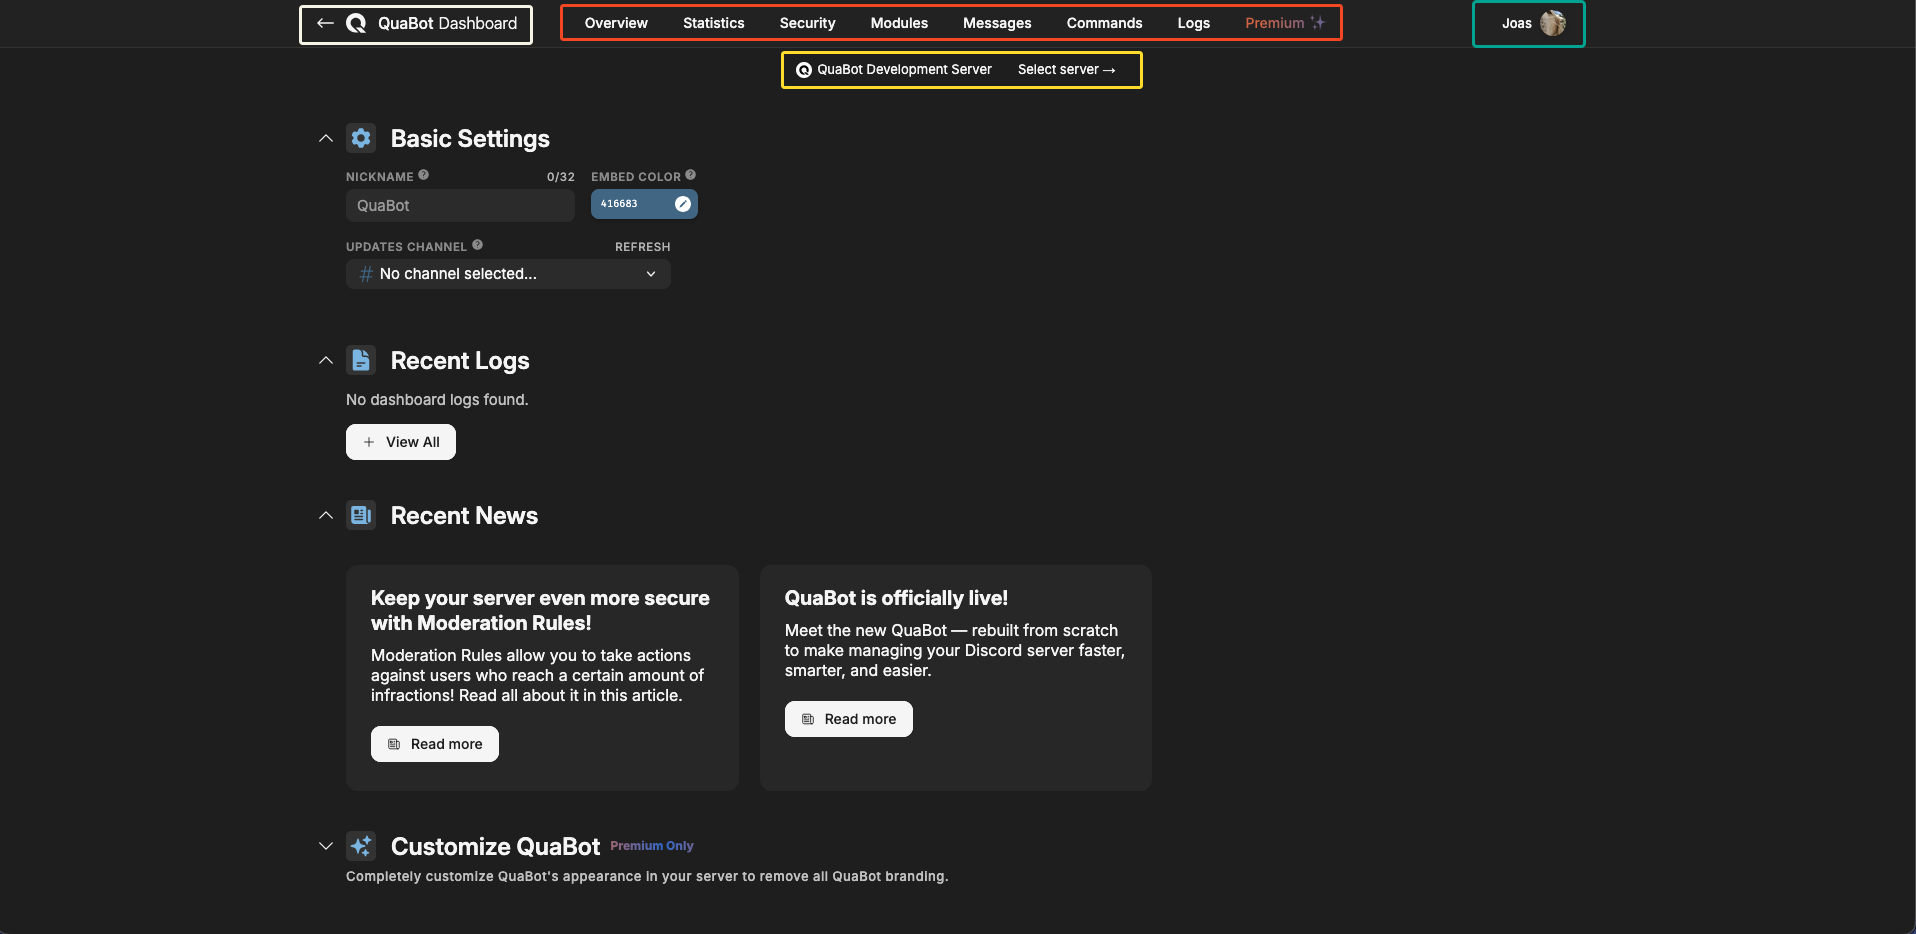
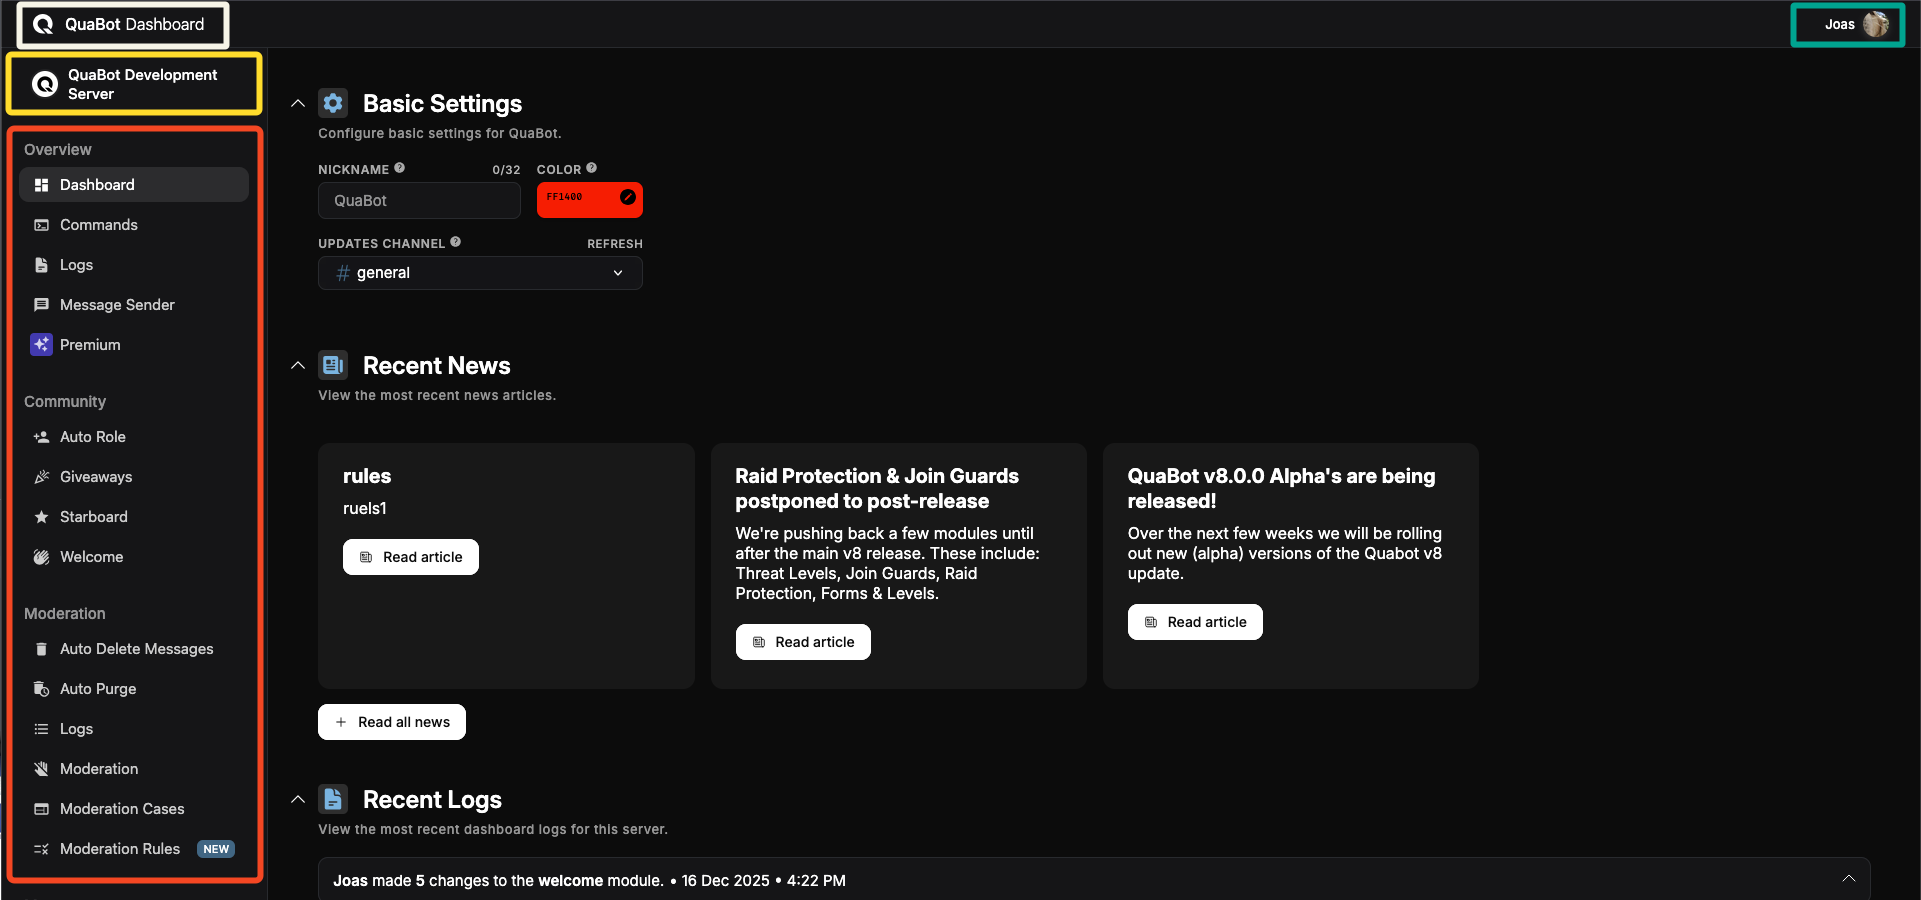
Added the issues & errors page (coming soon)

diff --git a/docs/getting-started.md b/docs/getting-started.md
@@ -70,12 +70,12 @@ There are a couple of ways to navigate around the dashboard. In the image below 
 ![Navigating](./img/GettingStarted-Navigation.png)
 
 1. Using the **QuaBot Dashboard Logo** (outlined in white), you can return to the main QuaBot site by clicking on the part of the logo that just says "QuaBot". Clicking on the "Dashboard" text opens the Server Selection page. The arrow to the left returns you to the next page (if there is one). This is always visible.
-2. Using the **tabs** (outlined in red), you can navigate to the different tabs of the dashboard. These are always visible. We will go over each of these tabs later. When you are on one of these tabs they have a different color to differentiate them. (As seen on the "Overview" tab)
+2. Using the **sidebar** (outlined in red), you can select the different modules and pages you want to visit. They are divided into seperate tabs and categories, the Overview category are the pages we will explain in this article. Below it, the modules are divided into categories and placed in a list.
 3. Clicking on your **Username** in the top right (outlined in green), you can open a dropdown with some additional settings. You will see the user you are logged in as, you can select a different theme (Light, Dark, Dark (Light) and Dark (blue)). You can directly visit the wiki (in a new tab), and log out of the dashboard. An example is shown below. This tab is always available, as long as you are logged in.
 
    ![Navigating Username](./img/GettingStarted-NavigationUsername.png)
 
-4. Using the **Select Server** bar (outlined in yellow), you can easily see what server you are configuring at this time. You can also easily go back to the server selection page. This bar is only visible when a server is selected, so not on the Servers page.
+4. Using the **Server Name** (outlined in yellow), you can easily see what server you are configuring at this time. You can also easily go back to the server selection page by clicking on it. This bar is only visible when a server is selected, so not on the Servers page.
 
 Hopefully this made you understand how to navigate the QuaBot dashboard. Next up, we'll take a look at each of the tabs.
 
@@ -92,13 +92,13 @@ The overview page is the page you can view as the hub of the QuaBot dashboard, o
 
 - Updates Channel: QuaBot might occisionally send messages to this channel regarding major bot updates, big changes or premium-related status updates. We only send a few messages per year, so don't expect any spam from us.
 
-#### Recent Logs
-
-Shows a list of the last few [Dashboard Logs](#logs-page) with the ability to view them all.
-
 #### Recent News
 
 Shows 3 of the newest news articles for you to read. These are mostly about bot updates or future updates and changes.
+
+#### Recent Logs
+
+Shows a list of the last few [Dashboard Logs](#logs-page) with the ability to view them all.
 
 #### Customize QuaBot (Premium only)
 
@@ -120,7 +120,34 @@ You can read all about statistics on the [Statistics Page](./security/statistics
 
 You can read all about security on the [Security Overview Page](./security/security-overview.md).
 
+### Issues & Errors Page
+
+During regular operation, the bot may encounter issues that can be resolved by server administrators, such as missing permissions, deleted channels, or misconfigured modules. When this happens, the Issues & Errors page appears and provides an overview of all detected issues, including quick links to fix them. The page shows up only if 1 or more errors have been created! If your server is setup correctly, the tab will not be available.
+
+![Issues Errors Sidebar](./img/GettingStarted-IssuesErrorsSidebar.png)
+
+When you open the page you will be greeted with the following screen:
+
+![Issues Page](./img/GettingStarted-IssuesErrors.png)
+
+This shows the list of issues. Let's go over an error/issue in detail below.
+
+![Issue](./img/GettingStarted-Issue.png)
+
+- **The issue (outlined in red):** This shows what the issue is with an icon to identify the issue.
+- **The severity of the issue (outlined in yellow):** There are 4 categories: informational, warnings, errors and critical errors. These are used to show how serious the issue is. It also shows how many times the issue has occured so far and the last time it occured.
+- **Role, Channel and User ID**: These are used to provide additional context. They show which role or channel is currently configured and which user ID triggered the issue, for example the user the bot could not assign a role to. If a role or channel exists, its current name is displayed. Otherwise, the ID or configured value is shown. This information can be used to verify whether the role or channel exists and to determine the steps needed to resolve the issue.
+- **Date**: This is shown below at the bottom and shows when the issue was first created.
+- **Mark as resolved (outlined in green):** Quickly mark the issue as resolved. It will not show up in the list anymore. If the issue were to happen again, the issue is marked as unresolved and it will be moved to the top of the list.
+- **Read More:** Opens a link to the wiki [page with common issues](./common_issues.md). This can help you fix the issue by explaining the specific issue in detail.
+
+Issues need to be marked as resolved to be removed from the list and from the sidebar. If you have any questions about this page or the issues shown [contact us!](#do-you-need-additional-support)
+
 ### Modules Page
+
+:::info This page is getting removed soon
+We recently updated the dashboard by adding a sidebar for navigation! This replaces the modules page which is currently only accessible by navigating directly. It has been removed from the sidebar and will be removed soon.
+:::
 
 - On the modules page you will find a full list of modules that you can use and configure for QuaBot. You can begin configuring a module by pressing the **Configure button** (outlined in red). You will then be taken to the configuration page for that modules. Read more about each module [here](./category/modules).
 - You can press the **icon** for each module (outlined in green) to enable or disable them. When a module is black/white it's disabled, if it has color it's enabled.
@@ -169,3 +196,7 @@ If you've reached the bottom of the list, you can use the button ("Load More") o
 ![Logs](./img/GettingStarted-Logs.png)
 
 That's it! You're ready to get started using QuaBot. View the sidebar for more information about [Permissions](./permissions.md), [Commands](./commands.md) or to view the [Modules](./category/modules). If you have any questions, please ask in our [support server](https://support.quabot.net).
+
+## Do you need additional support?
+
+Most commands should have either of these two ways to manage permissions, but some commands might only have one of them. If you have any questions or need help, feel free to reach out to our [support server](https://discord.quabot.net). We're here to help you get the most out of QuaBot!

diff --git a/docs/common_issues.md b/docs/common_issues.md
@@ -6,15 +6,27 @@ hide_title: true
 
 # Common Issues
 
-Some issues get asked quite often This page aims so explain the most common issues users have with QuaBot.
+Having issues with QuaBot? These are common issues that users have and that show up on the issues page frequently.
 
-## Role not found!
+## Roles
 
-That means that role QuaBot is trying to assign is invalid and could not be located. It has most likely been deleted and the configuration has not been updated. Ensure the role you are trying to give exists, by reconfiguring the role(s) and checking them all. If the issue persists, contact our team.
+### Role not found!
 
-## Lacks permissions to assign or remove role (for user)
+That means that role QuaBot is trying to assign is invalid and could not be located. It has most likely been deleted and the configuration has not been updated. Ensure the role you are trying to give exists, by reconfiguring the role(s) and checking them all. If the issue persists, [contact us](#do-you-need-additional-support).
 
-That means the bot misses some permissions. Ensure the [Permissions](./permissions.md) are setup correctly and the bot has the **Manage Roles** permission. Check that the [QuaBot Role Position](./permissions.md#quabot-role-position) has been configured correctly. **If the role position is not configured correctly, QuaBot cannot assign this role to users. Read through the Role Position section to ensure you have configured it correctly.** If the issue persists, contact our team.
+### Lacks permissions to assign or remove role (for user)
+
+That means the bot misses some permissions. Ensure the [Permissions](./permissions.md) are setup correctly and the bot has the **Manage Roles** permission. Check that the [QuaBot Role Position](./permissions.md#quabot-role-position) has been configured correctly. **If the role position is not configured correctly, QuaBot cannot assign this role to users. Read through the Role Position section to ensure you have configured it correctly.** If the issue persists, [contact us](#do-you-need-additional-support).
+
+## Channels
+
+### Channel not found!
+
+That means the channel QuaBot is trying to find and send a message in, is invalid and could not be located. It has most likely been deleted and the configuration has not been updated since. Ensure the channel exists and reconfigure the channel. You can also create a new one. If the issue persists, [contact us](#do-you-need-additional-support).
+
+### Lacks permissions to send messages in channel
+
+That means the bot misses some permissions for that channel. Ensure the [Permissions](./permissions.md) are setup correctly and the bot has the **Send Messages** permission in that channel or category through any of it's roles. More information about Discord Permissions can be found in [Discord's official FAQ here](https://support.discord.com/hc/en-us/articles/206029707-Setting-Up-Permissions-FAQ). If the issue persists, [contact us](#do-you-need-additional-support).
 
 ## Do you need additional support?
 

diff --git a/docs/embed-builder.md b/docs/embed-builder.md
@@ -153,8 +153,8 @@ Likely not. It should still work in the final message. If not, please contact us
 
 ---
 
-## Need help?
+## Do you need additional support?
 
-Visit our [Discord server](https://discord.quabot.net)! Our support team is ready to assist you.
+Most commands should have either of these two ways to manage permissions, but some commands might only have one of them. If you have any questions or need help, feel free to reach out to our [support server](https://discord.quabot.net). We're here to help you get the most out of QuaBot!
 
 ---
